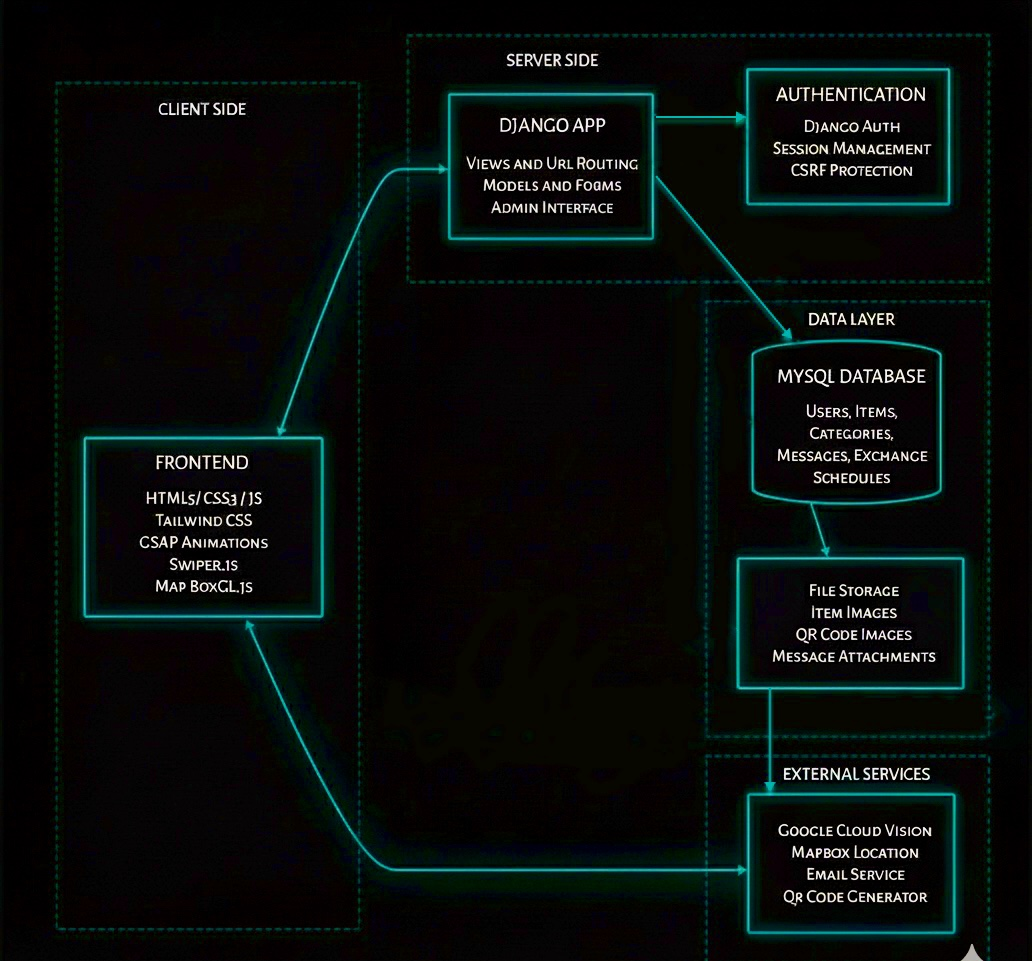
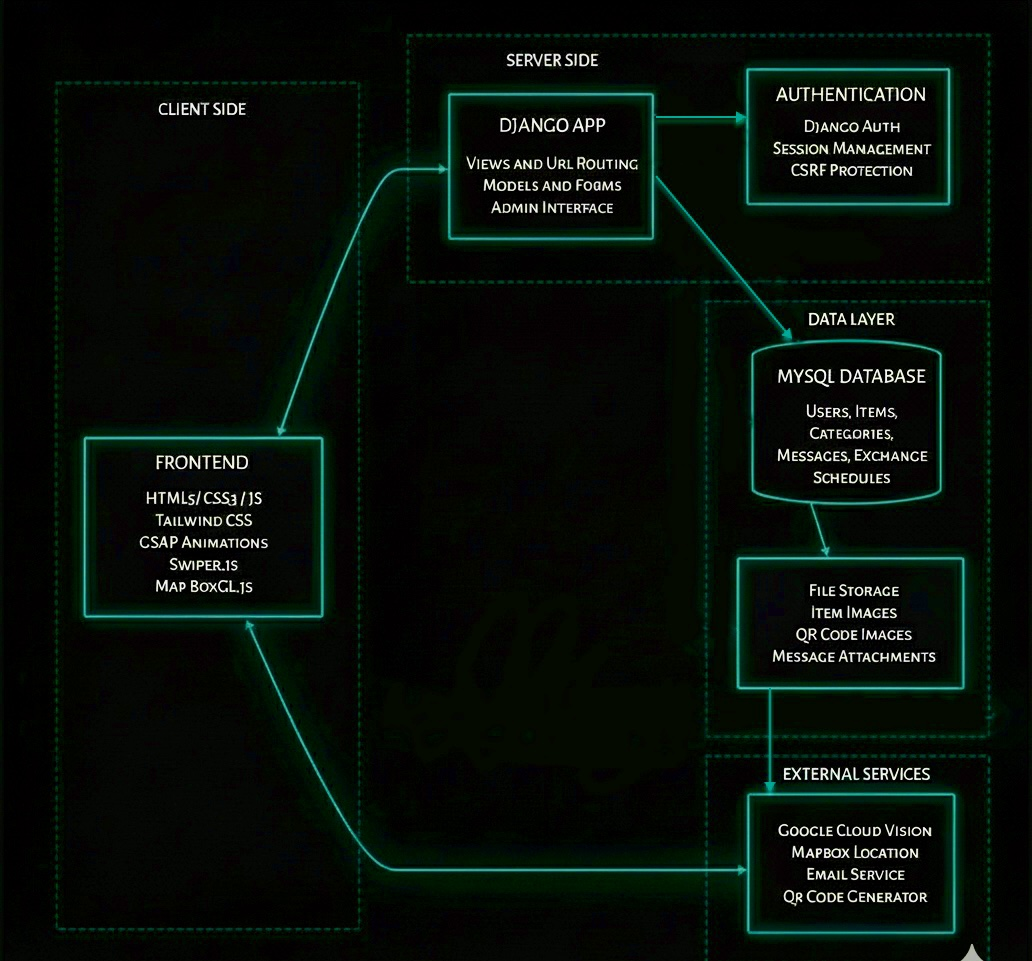
ReadMe changes

diff --git a/README.md b/README.md
@@ -51,7 +51,7 @@ WasteNot is a full-stack web application that facilitates community-based item s
 
 ## Architecture Diagram
 
-![Archdiag](./wastenot_backend/assets/IMG_1499.JPG)
+![Archdiag](./wastenot_backend/assets/IMG_1500%20(2).JPG)
 
 
 ## Tech Stack
